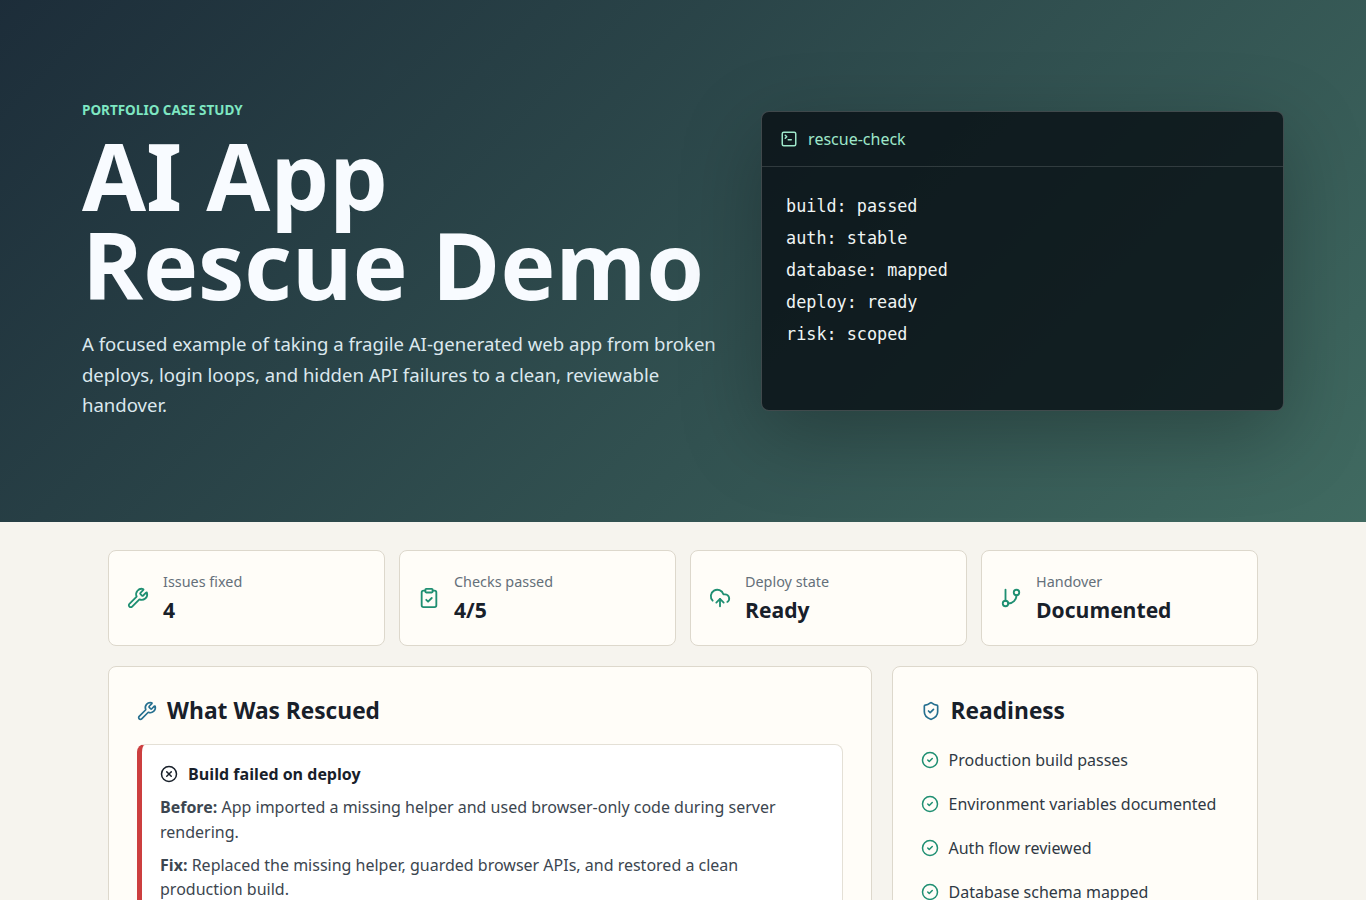
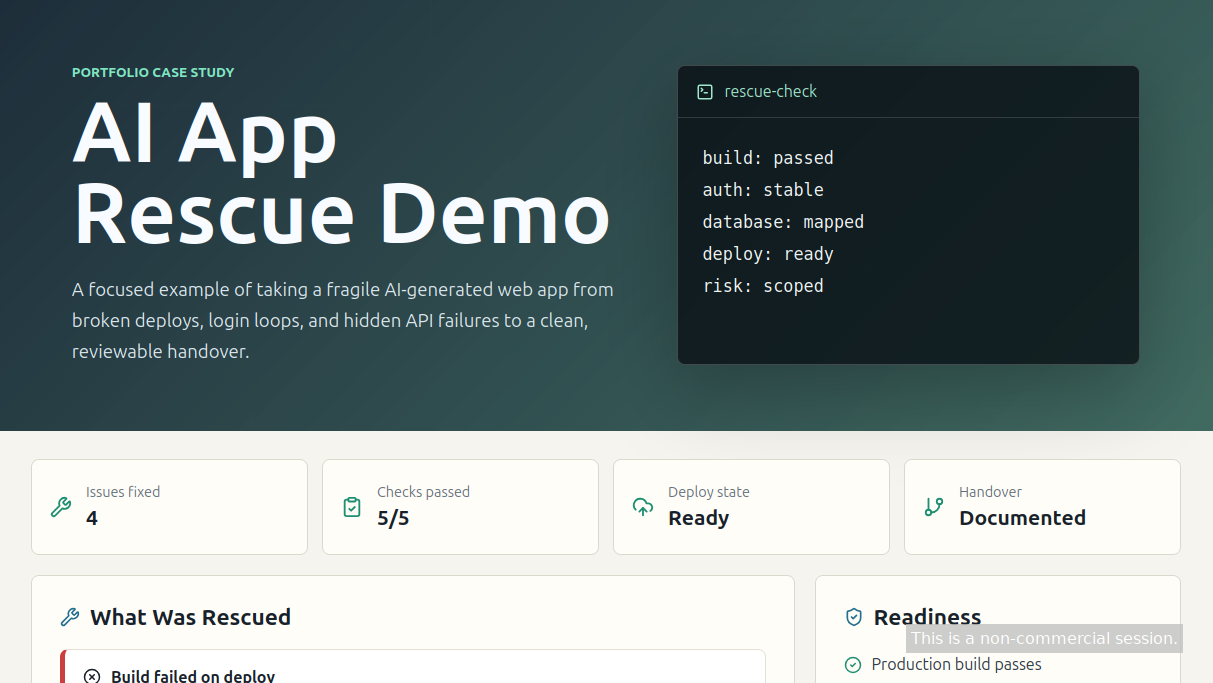
Polish demo copy for portfolio review

diff --git a/src/main.tsx b/src/main.tsx
@@ -25,49 +25,49 @@ type Finding = {
 
 type ChecklistItem = {
   label: string;
-  status: 'pass' | 'review';
+  status: 'pass';
 };
 
 const findings: Finding[] = [
   {
     title: 'Build failed on deploy',
-    before: 'App imported a missing helper and used browser-only code during server rendering.',
-    fix: 'Replaced the missing helper, guarded browser APIs, and restored a clean production build.',
+    before: 'The app looked fine in preview but failed when a production build was attempted.',
+    fix: 'The production build path was stabilized and verified without changing the client-facing scope.',
     severity: 'critical',
   },
   {
     title: 'Login loop after refresh',
-    before: 'Session state was stored only in memory, so protected pages lost auth after reload.',
-    fix: 'Moved auth bootstrap into a single provider and restored sessions from storage on startup.',
+    before: 'Users could sign in once, then lose access or get sent back through the same flow after refresh.',
+    fix: 'The session flow was reviewed end to end and returned to a predictable, testable state.',
     severity: 'critical',
   },
   {
     title: 'Database writes failed silently',
-    before: 'Form payloads did not match the expected table shape and errors were swallowed.',
-    fix: 'Normalized payload fields, surfaced API errors, and added user-facing save states.',
+    before: 'Save actions appeared successful, but no reliable records were created for the client.',
+    fix: 'The data path was traced, failure states were exposed, and the handover now lists the required setup.',
     severity: 'warning',
   },
   {
     title: 'Mobile layout overflow',
     before: 'Generated cards used fixed widths, causing buttons and long labels to clip on phones.',
-    fix: 'Rebuilt responsive grid rules and constrained text, controls, and panel widths.',
+    fix: 'The interface was cleaned up so the same workflow remains usable on desktop and mobile.',
     severity: 'fixed',
   },
 ];
 
 const checklist: ChecklistItem[] = [
   { label: 'Production build passes', status: 'pass' },
-  { label: 'Environment variables documented', status: 'pass' },
-  { label: 'Auth flow reviewed', status: 'pass' },
-  { label: 'Database schema mapped', status: 'pass' },
-  { label: 'Payment code requires live-client review', status: 'review' },
+  { label: 'Broken states documented', status: 'pass' },
+  { label: 'Client risks separated', status: 'pass' },
+  { label: 'Mobile view reviewed', status: 'pass' },
+  { label: 'Handover notes ready', status: 'pass' },
 ];
 
 const timeline = [
   'Reproduced client issue from logs and screenshots',
-  'Grouped symptoms into build, auth, database, and UI faults',
-  'Fixed root causes before adding new features',
-  'Prepared deployment notes and handover checklist',
+  'Separated symptoms from likely root causes',
+  'Stabilized the app without expanding scope',
+  'Prepared clear handover notes for review',
 ];
 
 const iconForSeverity = {
@@ -142,7 +142,7 @@ risk: scoped`}</pre>
           <ul className="checklist">
             {checklist.map((item) => (
               <li key={item.label}>
-                {item.status === 'pass' ? <CheckCircle2 size={18} /> : <AlertTriangle size={18} />}
+                <CheckCircle2 size={18} />
                 <span>{item.label}</span>
               </li>
             ))}

diff --git a/docs/rescue-notes.md b/docs/rescue-notes.md
@@ -12,8 +12,8 @@ This is a portfolio demonstration for an AI/vibe-coded app rescue service. It is
 ## Stabilization Approach
 
 1. Reproduce the failure from logs and screenshots.
-2. Separate symptoms into build, auth, API/database, and UI categories.
-3. Fix root causes before adding or changing features.
+2. Separate visible symptoms from likely root causes.
+3. Stabilize the app before changing or adding features.
 4. Confirm production build.
 5. Write handover notes with remaining risks.
 
@@ -21,5 +21,5 @@ This is a portfolio demonstration for an AI/vibe-coded app rescue service. It is
 
 - React component cleanup.
 - Deployment-focused debugging.
-- Environment variable and API failure handling.
+- Environment and API readiness checks.
 - Practical project scoping for small rescue jobs.

diff --git a/docs/broken-state.md b/docs/broken-state.md
@@ -4,11 +4,11 @@ This document describes the fictional broken starting point for the demo. Use it
 
 ## Simulated Broken Issues
 
-- Missing helper imports caused production builds to fail.
-- Auth state was scattered across components and reset on refresh.
-- Database writes swallowed errors, making failed saves look successful.
-- Environment variables were not listed anywhere.
-- Generated CSS used fixed widths that broke mobile layouts.
+- Production builds failed even though previews appeared to work.
+- Users could hit a login loop or lose session state after refresh.
+- Save actions appeared successful but did not reliably create records.
+- Required environment setup was unclear.
+- Mobile layouts clipped important controls and longer labels.
 
 ## Why The Main Branch Is Fixed
 
